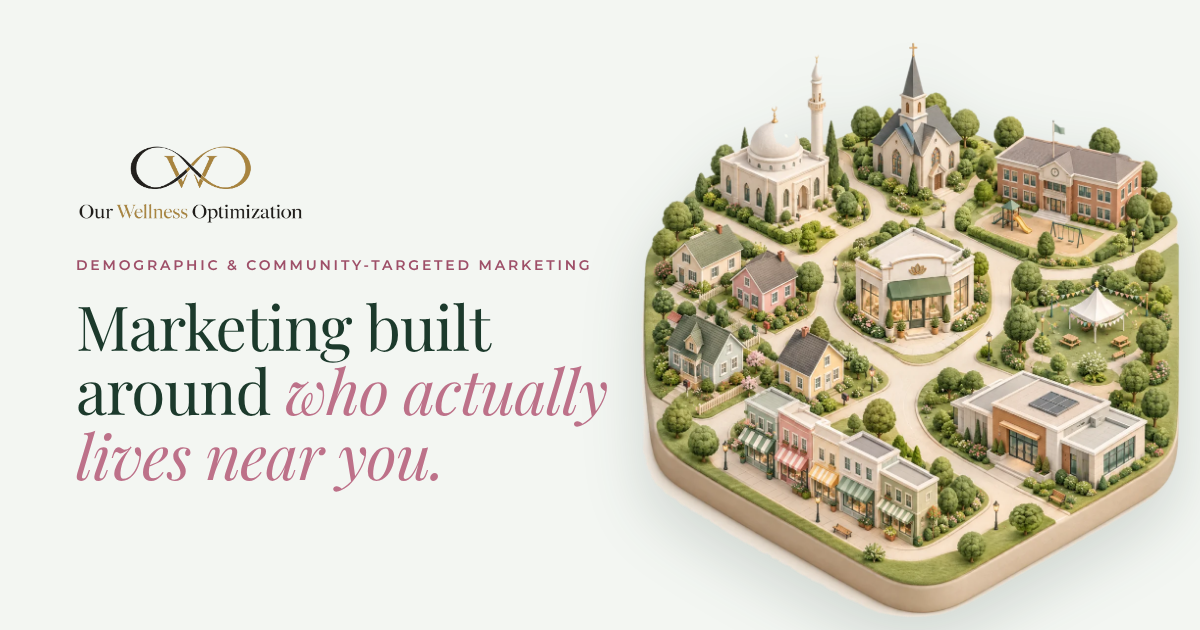
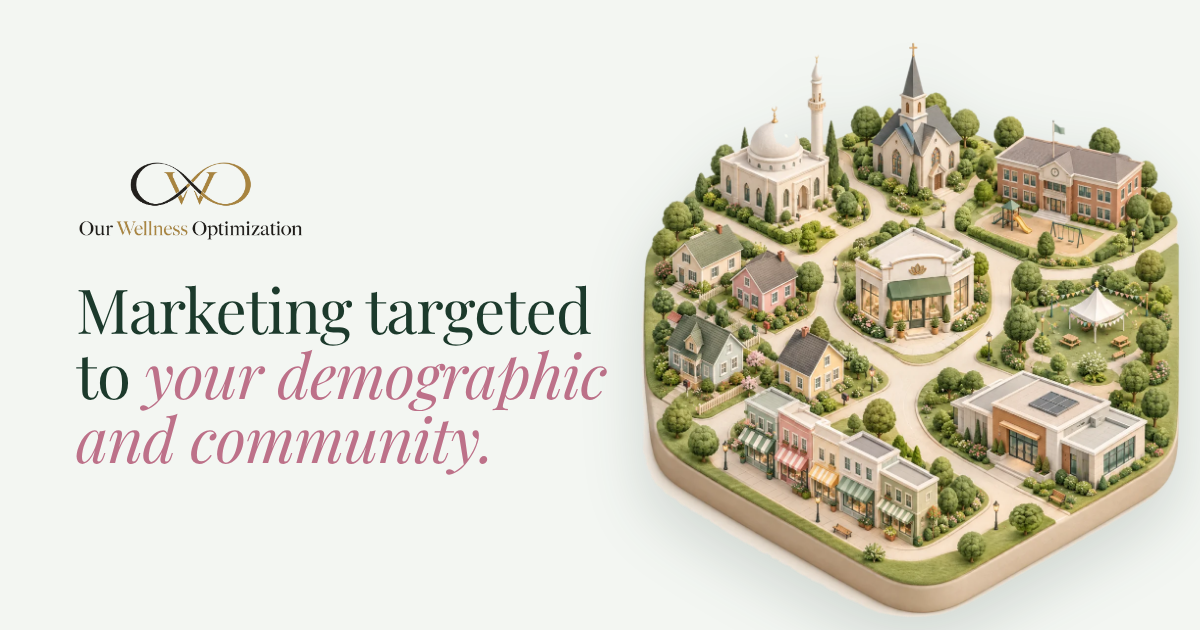
Simplify hero headline: "Marketing targeted to your demographic and community."
Shorter subtext, eyebrow removed, share image updated to match.

Claude-Session: https://claude.ai/code/session_01QqY3Uip16oYiFzTZFxaAGH

Changed region(s): [[0.0617, 0.2413, 0.5242, 0.7841]]

diff --git a/index.html b/index.html
@@ -100,9 +100,8 @@
 <section class="hero hero-town" aria-labelledby="hero-h">
   <div class="wrap hero-grid">
     <div class="hero-copy">
-      <p class="eyebrow">Demographic &amp; community-targeted marketing</p>
-      <h1 id="hero-h">Marketing built around <em>who actually lives near you.</em></h1>
-      <p class="lede">We map the demographics, languages and cultural communities around your business &mdash; the mosques, churches, schools, festivals and neighborhoods where your customers gather &mdash; then reach them through mail, events, Google, Groupon and social.</p>
+      <h1 id="hero-h">Marketing targeted to <em>your demographic and community.</em></h1>
+      <p class="lede">We study who lives around your business, find where they gather, and reach them through mail, events, Google, Groupon and social.</p>
       <div class="actions">
         <a class='btn btn-primary' href='estimate.html'>Build My Marketing Plan</a>
         <a class='btn btn-ghost' href='how-it-works.html'>See How It Works</a>
